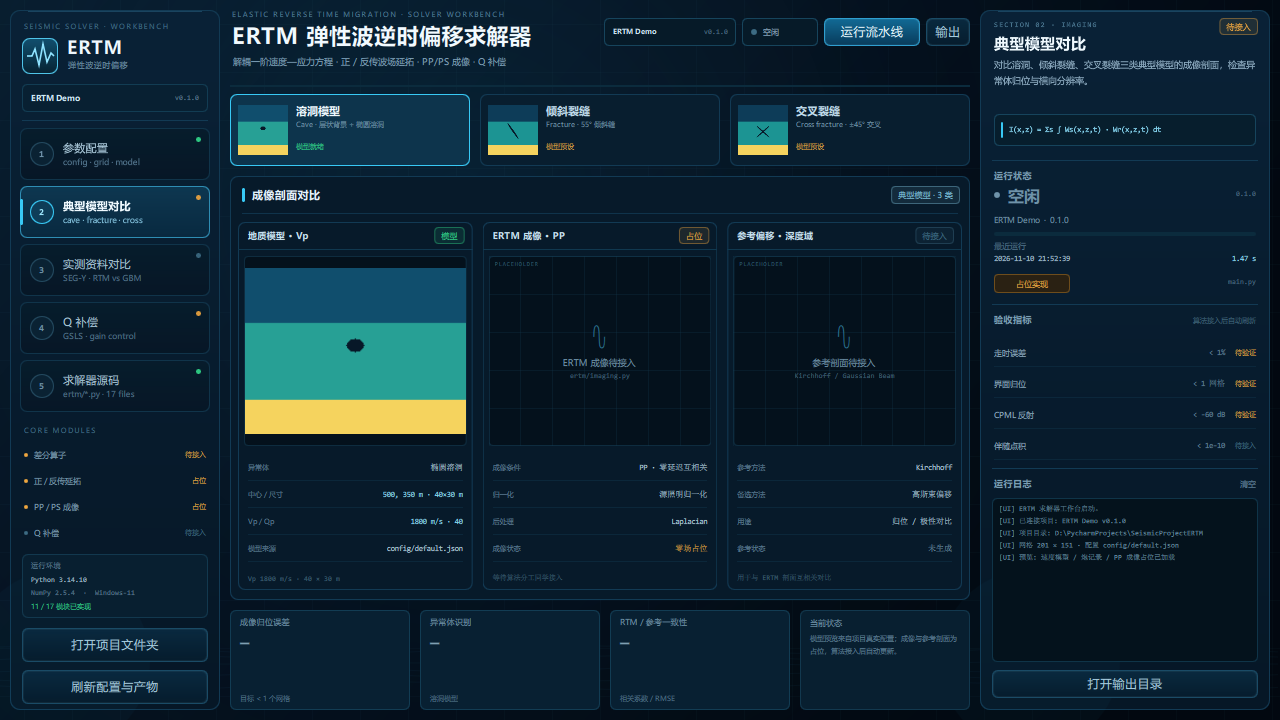
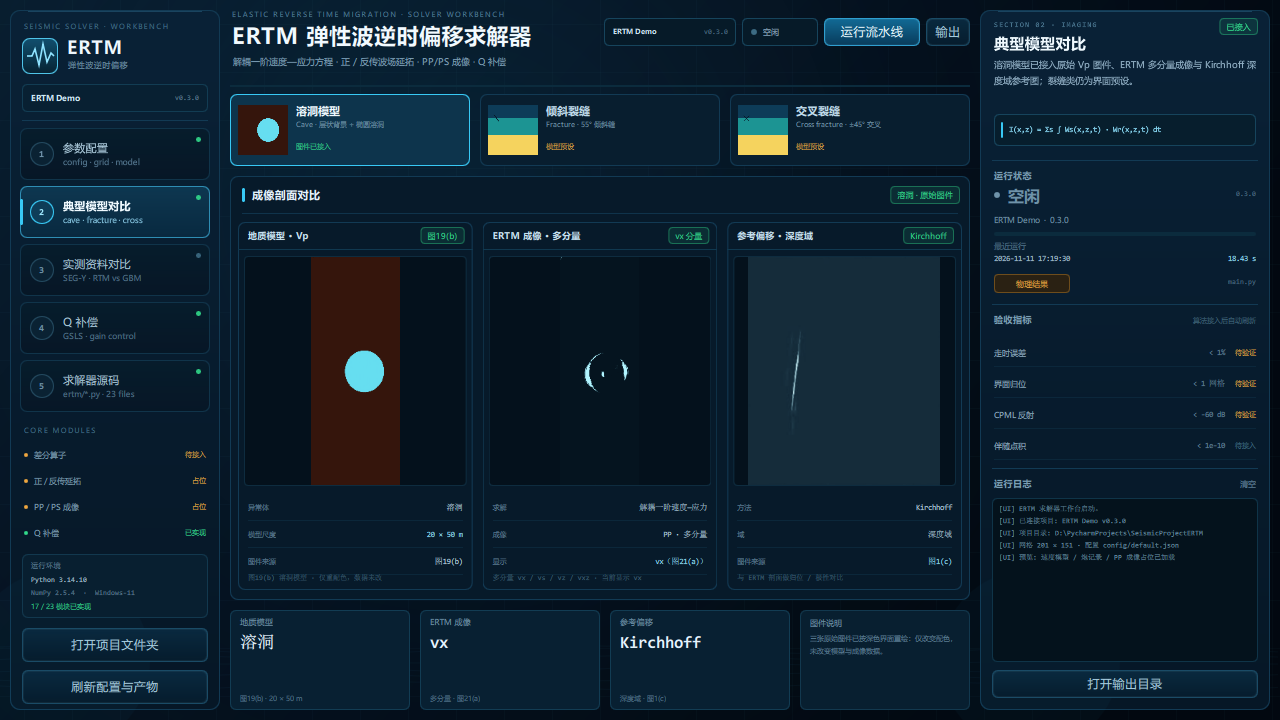
Use real cave model, ERTM and Kirchhoff figures
Replaces the cave comparison panes with the provided model, ERTM multi-component and Kirchhoff figures, recolored/cropped for the dark UI while preserving the data. Adds assets and updates docs.

diff --git a/workbench/untitled/views/ModelCompareView.qml b/workbench/untitled/views/ModelCompareView.qml
@@ -2,24 +2,28 @@ import QtQuick
 import "../components"
 import "../theme/Theme.js" as Theme
 
-/* 典型模型成像对比：溶洞 / 倾斜裂缝 / 交叉裂缝 */
+/* 典型模型成像对比：溶洞原始图件 + ERTM 多分量 + Kirchhoff 参考 */
 Item {
     id: view
 
     readonly property var comparisons: bridge ? bridge.comparisons : []
     property int selectedIndex: 0
     readonly property var current: comparisons.length > 0 ? comparisons[selectedIndex] : ({})
+    readonly property bool caveActive: current.id === "cave"
     readonly property string modelSource: bridge && current.modelKey
         ? (bridge.previews[current.modelKey] || "") : ""
+
+    readonly property url caveModelAsset: Qt.resolvedUrl("../../assets/compare/cave_model.png")
+    readonly property url ertmAsset: Qt.resolvedUrl("../../assets/compare/ertm_vx.png")
+    readonly property url kirchhoffAsset: Qt.resolvedUrl("../../assets/compare/kirchhoff.png")
 
     function modelInfo() {
         var id = current.id || "";
         if (id === "cave")
             return [
-                { "label": "异常体", "value": "椭圆溶洞" },
-                { "label": "中心 / 尺寸", "value": "500, 350 m · 40×30 m", "color": "#8fe3ff" },
-                { "label": "Vp / Qp", "value": "1800 m/s · 40", "color": "#8fe3ff" },
-                { "label": "模型来源", "value": "config/default.json" }
+                { "label": "异常体", "value": "溶洞" },
+                { "label": "模型尺度", "value": "20 × 50 m", "color": "#8fe3ff" },
+                { "label": "图件来源", "value": "图19(b)" }
             ];
         if (id === "fracture")
             return [
@@ -66,7 +70,9 @@ Item {
 
                     Image {
                         anchors.fill: parent
-                        source: bridge ? (bridge.previews[modelData.modelKey] || "") : ""
+                        source: modelData.id === "cave"
+                                ? view.caveModelAsset
+                                : (bridge ? (bridge.previews[modelData.modelKey] || "") : "")
                         fillMode: Image.PreserveAspectCrop
                         smooth: true
                         cache: false
@@ -96,7 +102,7 @@ Item {
                 Text {
                     x: 66
                     y: 48
-                    text: modelData.status
+                    text: modelData.id === "cave" ? "图件已接入" : modelData.status
                     color: modelData.id === "cave" ? "#31d98a" : "#efa63f"
                     font.family: Theme.fontUi
                     font.pixelSize: 7
@@ -125,8 +131,8 @@ Item {
         CardHeader {
             width: parent.width
             title: "成像剖面对比"
-            tag: "典型模型 · 3 类"
-            tagColor: "#7fc4df"
+            tag: view.caveActive ? "溶洞 · 原始图件" : "典型模型 · 3 类"
+            tagColor: view.caveActive ? "#31d98a" : "#7fc4df"
         }
 
         ComparePane {
@@ -135,13 +141,14 @@ Item {
             width: (compareCard.width - 16 - 20) / 3
             height: 368
             title: "地质模型 · Vp"
-            tag: "模型"
+            tag: view.caveActive ? "图19(b)" : "模型"
             tagColor: "#31d98a"
-            source: view.modelSource
+            source: view.caveActive ? view.caveModelAsset : view.modelSource
             placeholderText: "模型预览"
-            placeholderNote: "output/models/model.npz"
+            placeholderNote: view.caveActive ? "assets/compare/cave_model.png" : "output/models/model.npz"
+            imageHeight: view.caveActive ? 230 : 190
             info: view.modelInfo()
-            footer: view.current.note || ""
+            footer: view.caveActive ? "图19(b) 溶洞模型 · 仅重配色，数据未改" : (view.current.note || "")
         }
 
         ComparePane {
@@ -149,18 +156,26 @@ Item {
             y: 46
             width: (compareCard.width - 16 - 20) / 3
             height: 368
-            title: "ERTM 成像 · PP"
-            tag: "占位"
-            tagColor: "#efa63f"
+            title: "ERTM 成像 · 多分量"
+            tag: view.caveActive ? "vx 分量" : "占位"
+            tagColor: view.caveActive ? "#31d98a" : "#efa63f"
+            source: view.caveActive ? view.ertmAsset : ""
             placeholderText: "ERTM 成像待接入"
             placeholderNote: "ertm/imaging.py"
-            info: [
+            imageHeight: view.caveActive ? 230 : 190
+            info: view.caveActive ? [
+                { "label": "求解", "value": "解耦一阶速度—应力" },
+                { "label": "成像", "value": "PP · 多分量" },
+                { "label": "显示", "value": "vx（图21(a)）", "color": "#8fe3ff" }
+            ] : [
                 { "label": "成像条件", "value": "PP · 零延迟互相关" },
                 { "label": "归一化", "value": "源照明归一化" },
                 { "label": "后处理", "value": "Laplacian" },
                 { "label": "成像状态", "value": "零场占位", "color": "#efa63f" }
             ]
-            footer: "等待算法分工同学接入"
+            footer: view.caveActive
+                    ? "多分量 vx / vs / vz / vxz · 当前显示 vx"
+                    : "等待算法分工同学接入"
         }
 
         ComparePane {
@@ -169,17 +184,25 @@ Item {
             width: (compareCard.width - 16 - 20) / 3
             height: 368
             title: "参考偏移 · 深度域"
-            tag: "待接入"
-            tagColor: "#3c6b83"
+            tag: view.caveActive ? "Kirchhoff" : "待接入"
+            tagColor: view.caveActive ? "#31d98a" : "#3c6b83"
+            source: view.caveActive ? view.kirchhoffAsset : ""
             placeholderText: "参考剖面待接入"
             placeholderNote: "Kirchhoff / Gaussian Beam"
-            info: [
+            imageHeight: view.caveActive ? 230 : 190
+            info: view.caveActive ? [
+                { "label": "方法", "value": "Kirchhoff" },
+                { "label": "域", "value": "深度域" },
+                { "label": "图件来源", "value": "图1(c)", "color": "#8fe3ff" }
+            ] : [
                 { "label": "参考方法", "value": "Kirchhoff" },
                 { "label": "备选方法", "value": "高斯束偏移" },
                 { "label": "用途", "value": "归位 / 极性对比" },
                 { "label": "参考状态", "value": "未生成", "color": "#6f93aa" }
             ]
-            footer: "用于与 ERTM 剖面互相关对比"
+            footer: view.caveActive
+                    ? "与 ERTM 剖面做归位 / 极性对比"
+                    : "用于与 ERTM 剖面互相关对比"
         }
     }
 
@@ -189,30 +212,30 @@ Item {
         y: 516
         width: 180
         height: 100
-        label: "成像归位误差"
-        value: "—"
-        note: "目标 < 1 个网格"
-        state: "muted"
+        label: "地质模型"
+        value: view.caveActive ? "溶洞" : "示意图"
+        note: view.caveActive ? "图19(b) · 20 × 50 m" : "UI 预设"
+        state: "ok"
     }
     MetricTile {
         x: 190
         y: 516
         width: 180
         height: 100
-        label: "异常体识别"
-        value: "—"
-        note: view.current.name ? view.current.name : "三类典型体"
-        state: "muted"
+        label: "ERTM 成像"
+        value: view.caveActive ? "vx" : "—"
+        note: view.caveActive ? "多分量 · 图21(a)" : "等待接入"
+        state: view.caveActive ? "ok" : "muted"
     }
     MetricTile {
         x: 380
         y: 516
         width: 180
         height: 100
-        label: "RTM / 参考一致性"
-        value: "—"
-        note: "相关系数 / RMSE"
-        state: "muted"
+        label: "参考偏移"
+        value: view.caveActive ? "Kirchhoff" : "—"
+        note: view.caveActive ? "深度域 · 图1(c)" : "参考剖面"
+        state: view.caveActive ? "ok" : "muted"
     }
 
     Rectangle {
@@ -228,7 +251,7 @@ Item {
         Text {
             x: 10
             y: 8
-            text: "当前状态"
+            text: "图件说明"
             color: "#6f93aa"
             font.family: Theme.fontUi
             font.pixelSize: 8
@@ -237,7 +260,9 @@ Item {
             x: 10
             y: 24
             width: parent.width - 20
-            text: "模型预览来自项目真实配置；成像与参考剖面为占位，算法接入后自动更新。"
+            text: view.caveActive
+                  ? "三张原始图件已按深色界面重绘：仅改变配色，未改变模型与成像数据。"
+                  : "当前模型为界面预设示意；溶洞模型已接入原始图件。"
             wrapMode: Text.WordWrap
             color: "#5f8199"
             font.family: Theme.fontUi

diff --git a/workbench/untitled/Main.qml b/workbench/untitled/Main.qml
@@ -29,10 +29,10 @@ Window {
         {
             "eyebrow": "SECTION 02 · IMAGING",
             "title": "典型模型对比",
-            "desc": "对比溶洞、倾斜裂缝、交叉裂缝三类典型模型的成像剖面，检查异常体归位与横向分辨率。",
+            "desc": "溶洞模型已接入原始 Vp 图件、ERTM 多分量成像与 Kirchhoff 深度域参考图；裂缝类仍为界面预设。",
             "formula": "I(x,z) = Σs ∫ Ws(x,z,t) · Wr(x,z,t) dt",
-            "tag": "待接入",
-            "tagColor": "#efa63f"
+            "tag": "已接入",
+            "tagColor": "#31d98a"
         },
         {
             "eyebrow": "SECTION 03 · REAL DATA",

diff --git a/workbench/untitled/components/ComparePane.qml b/workbench/untitled/components/ComparePane.qml
@@ -13,6 +13,7 @@ Rectangle {
     property string placeholderNote: ""
     property var info: []
     property string footer: ""
+    property int imageHeight: 190
 
     radius: 7
     color: "#071a2a"
@@ -61,7 +62,7 @@ Rectangle {
         x: 6
         y: 34
         width: parent.width - 12
-        height: 190
+        height: pane.imageHeight
         radius: 4
         color: "#04111c"
         border.width: 1
@@ -156,7 +157,8 @@ Rectangle {
     Column {
         id: infoList
         x: 10
-        y: 232
+        anchors.top: imageBox.bottom
+        anchors.topMargin: 8
         width: parent.width - 20
         spacing: 0
 

diff --git a/workbench/untitled/components/Sidebar.qml b/workbench/untitled/components/Sidebar.qml
@@ -162,7 +162,7 @@ Item {
             step: 2
             title: "典型模型对比"
             subtitle: "cave · fracture · cross"
-            state: "warn"
+            state: "ready"
             selected: sidebar.selectedIndex === 1
             onClicked: sidebar.select(1)
         }

diff --git a/workbench/README.md b/workbench/README.md
@@ -60,7 +60,7 @@ PyCharm 中打开仓库根目录，解释器选根目录 `.venv\Scripts\python.e
 |---|---|---|
 | 参数配置 | 网格、层状背景、异常体、震源、检波点、时间/空间格式、成像条件 | `config/default.json` |
 | 速度模型 / 单炮记录 / 成像 | 深色 Vp/Vs/ρ 预览、单炮记录（当前为占位直达波）、PP 零场占位 | `output/models/model.npz`、`output/shots/shot.npz`、`output/images/image_pp.npz` |
-| 典型模型对比 | 溶洞、倾斜裂缝、交叉裂缝；模型 / ERTM / 参考偏移三栏 | 配置 + UI 模型预设（示意图，已标注） |
+| 典型模型对比 | 溶洞原始图件（图19b）、ERTM vx 多分量（图21a）、Kirchhoff 参考（图1c）；裂缝类仍为 UI 预设 | `assets/compare`（原始图件重绘，数据未改） |
 | 实测资料对比 | RTM / Kirchhoff / 高斯束 / 差异 QC 四象限 | `data/`（当前未导入 SEG-Y，界面为占位态） |
 | Q 补偿 | GSLS 黏声补偿、Q 模型、补偿前后 QC、增益曲线、限幅/低通稳定性；可运行 viscoacoustic 配置 | `ertm/qcomp.py`、`ertm/qc.py`、`output/viscoacoustic` |
 | 求解器源码 | `ertm/*.py` 模块职责、行数、实现/占位/待建状态 | 仓库源码目录 |
